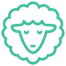
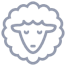
更新切图。添加个人中心模块。

diff --git a/MuYiOrder/MuYiOrder/Classes/User/Controller/UserCenterVC.m b/MuYiOrder/MuYiOrder/Classes/User/Controller/UserCenterVC.m
@@ -1,0 +1,38 @@
+//
+//  UserCenterVC.m
+//  MuYiOrder
+//
+//  Created by Apple on 2017/4/26.
+//  Copyright © 2017年 Clay Zhu. All rights reserved.
+//
+
+#import "UserCenterVC.h"
+
+@interface UserCenterVC ()
+
+@end
+
+@implementation UserCenterVC
+
+- (void)viewDidLoad {
+    [super viewDidLoad];
+    // Do any additional setup after loading the view.
+    self.title = @"羊羊羊";
+}
+
+- (void)didReceiveMemoryWarning {
+    [super didReceiveMemoryWarning];
+    // Dispose of any resources that can be recreated.
+}
+
+/*
+#pragma mark - Navigation
+
+// In a storyboard-based application, you will often want to do a little preparation before navigation
+- (void)prepareForSegue:(UIStoryboardSegue *)segue sender:(id)sender {
+    // Get the new view controller using [segue destinationViewController].
+    // Pass the selected object to the new view controller.
+}
+*/
+
+@end

diff --git a/MuYiOrder/MuYiOrder/Classes/Order/Controller/MuYiTBC.m b/MuYiOrder/MuYiOrder/Classes/Order/Controller/MuYiTBC.m
@@ -45,8 +45,11 @@
     // 产品
     UIViewController *vc2 = [self setWithStoryboardName:@"Product" viewControllerId:@"ProductListVC" title:@"产品" image:@"needle" selectedImage:@"needle_pressed"];
     BaseNavigationController *nc2 = [[BaseNavigationController alloc] initWithRootViewController:vc2];
+    // 我的
+    UIViewController *vc3 = [self setWithStoryboardName:@"User" viewControllerId:@"UserCenterVC" title:@"我的" image:@"sheep" selectedImage:@"sheep_pressed"];
+    BaseNavigationController *nc3 = [[BaseNavigationController alloc] initWithRootViewController:vc3];
     
-    self.viewControllers = @[nc, nc2];
+    self.viewControllers = @[nc, nc2, nc3];
 }
 
 @end

diff --git a/MuYiOrder/MuYiOrder/Classes/User/Controller/UserCenterVC.h b/MuYiOrder/MuYiOrder/Classes/User/Controller/UserCenterVC.h
@@ -1,0 +1,13 @@
+//
+//  UserCenterVC.h
+//  MuYiOrder
+//
+//  Created by Apple on 2017/4/26.
+//  Copyright © 2017年 Clay Zhu. All rights reserved.
+//
+
+#import "BaseViewController.h"
+
+@interface UserCenterVC : BaseViewController
+
+@end
